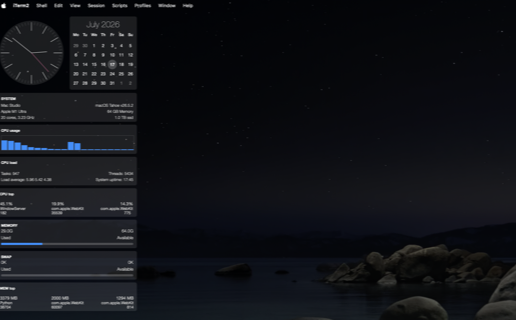
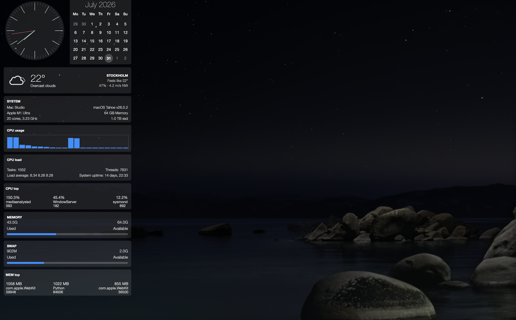
Screenshots showing the weather panel; mention it in manifest and v1 comparison
Claude-Session: https://claude.ai/code/session_012Xf7wYCFSfw6tLQZvdLUD6

diff --git a/README.md b/README.md
@@ -77,6 +77,7 @@ What changed is everything behind them:
 | Staleness detection | none — a dead producer meant silently frozen numbers | `metrics.json` carries a `timestamp` heartbeat |
 | Dependencies | prebuilt htop binaries per arch, `htoprc`, `screen`, brew `flock` | one universal binary; `flock`/`screen`/`htoprc` all gone |
 | Maintenance | rebase the htop patches on every upstream htop release | none — the sampler has no upstream to track |
+| Weather | — | optional OpenWeatherMap panel with three icon sets (invisible until an API key is configured, see step 6) |
 
 The legacy `htop_*.txt` file names and formats are still published, so v1
 widgets (or any other consumer of those files) keep working unmodified.
